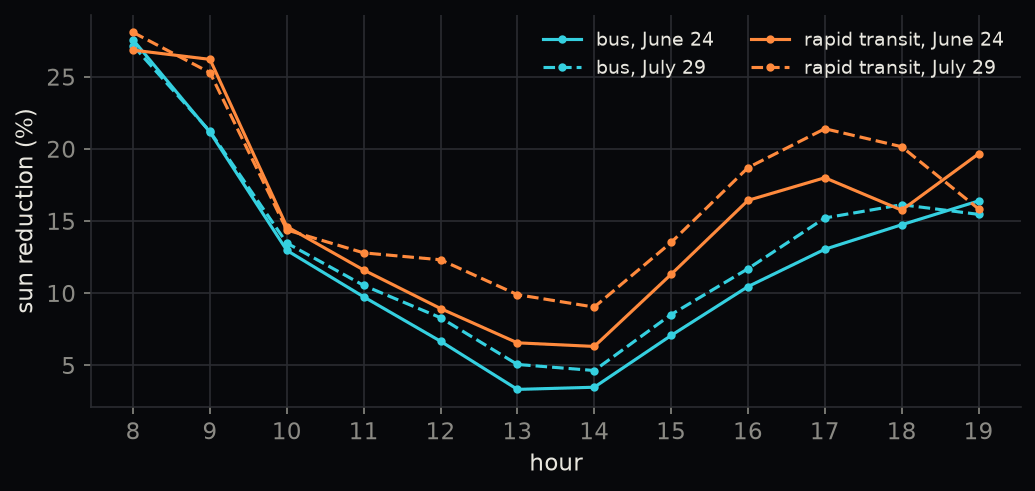
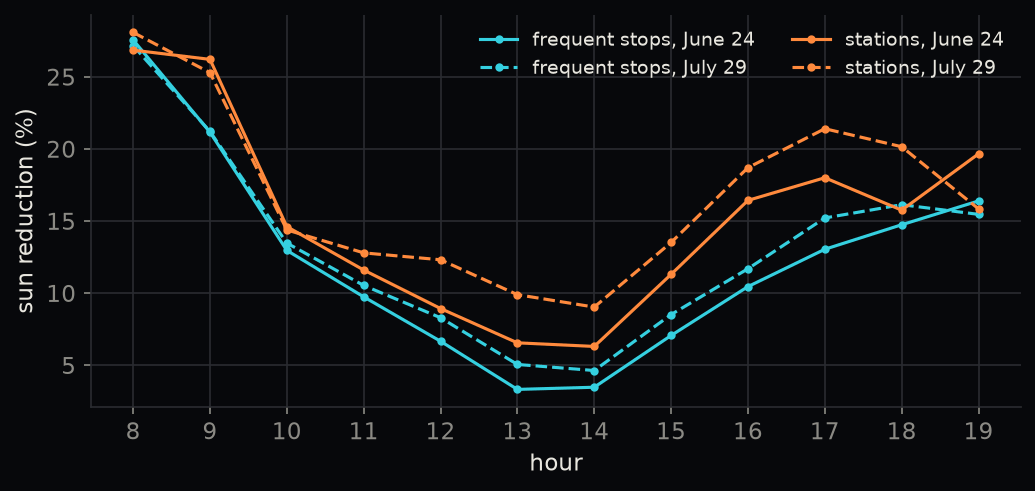
'Frequent stops' on the story, map, results and technical notes
About a fifth of the 1,605 frequent surface stops are trolley stops, so 'bus stops' was
inaccurate; the data and methods pages keep the full 'bus or trolley stops'.

Changed region(s): [[0.4638, 0.0611, 0.8966, 0.1527]]

diff --git a/site/app/index.html b/site/app/index.html
@@ -195,7 +195,7 @@
       <h2>Every afternoon, thousands walk home from a train or a bus. <em class="cool">Follow one.</em></h2>
       <p class="detail">From <b id="p-station">–</b> in University City to a home <b id="p-len">–</b> away, at 15:00 on June 24, 2025, the hottest day of the summer.</p>
       <div class="stat">
-        <div><div class="big num" id="n-homes">–</div><div class="cap">homes within a 15-minute walk (1.2 km) of a station or a frequent bus stop</div></div>
+        <div><div class="big num" id="n-homes">–</div><div class="cap">homes within a 15-minute walk (1.2 km) of a station or a frequent stop</div></div>
       </div>
     </div>
   </section>
@@ -273,7 +273,7 @@
 
   <section data-step="sunny" data-ch="3">
     <div class="panel step">
-      <div class="label">Walks home from frequent bus stops within 300–800 m at 15:00</div>
+      <div class="label">Walks home from frequent stops within 300–800 m at 15:00</div>
       <h2>Across the city, <em class="sun" id="s-sun">–</em> of the shortest walk home is <em class="sun">in the sun</em>.</h2>
       <div class="mini-legend" data-grid-legend="sun_share"></div>
     </div>
@@ -335,7 +335,7 @@
 
   <section data-step="cityheat" data-ch="4">
     <div class="panel step">
-      <div class="label">Walks home from frequent bus stops within 300–800 m at 15:00</div>
+      <div class="label">Walks home from frequent stops within 300–800 m at 15:00</div>
       <h2>Across the city, the coolest walk takes <em class="cool" id="ch-ext-w">–</em> off the metres in extreme heat.</h2>
       <div class="stat">
         <div><div class="big num cool" id="ch-du">–</div><div class="cap">mean UTCI along the walk</div></div>

diff --git a/site/app/js/map.js b/site/app/js/map.js
@@ -1,4 +1,4 @@
-// City map: sidewalk sun or heat by hour (PMTiles), the 500 m grid of walks home from frequent bus stops and the
+// City map: sidewalk sun or heat by hour (PMTiles), the 500 m grid of walks home from frequent stops and the
 // rapid-transit stations. Panel, legend, time bar and sidewalk colours are the shared components of common.js, as on
 // the route tool; one measure toggle (sun / heat) switches the sidewalks, the grid and the stations together.
 import { VERSION, readState, writeState, nav, collapsible, baseStyle, getJSON, pmtilesProtocol, COLORS, CLUSTERS, GRID_RAMPS, ATTR,
@@ -110,7 +110,7 @@ map.once("style.load", async () => {
 // ---- details in the panel (cells and stations alike), the clicked cell outlined
 const v = (x, f) => (x === null || x === undefined ? "–" : f(x));
 const cellTable = (p) => `<h2>${p.cluster_name}</h2>
-  <div class="sub">500 m cell · ${p.trips} walks home from frequent bus stops, 300–800 m, 15:00</div>
+  <div class="sub">500 m cell · ${p.trips} walks home from frequent stops, 300–800 m, 15:00</div>
   <table class="cmp"><thead><tr><th></th><th>sun</th><th>heat</th></tr></thead><tbody>
     <tr><td>Shortest walk</td><td>${v(p.sun_share, (x) => `${pct(x, 0)} sunny`)}</td><td>${v(p.u_short, (x) => degC(x))}</td></tr>
     <tr><td>Shadiest / coolest</td><td class="cool-t">${v(p.sun_red, (x) => `−${pct(x, 0)} sun`)}</td><td class="cool-t">${v(p.u_cool, (x) => degC(-x))}</td></tr>

diff --git a/site/app/map.html b/site/app/map.html
@@ -32,7 +32,7 @@
   <div class="block" id="legend"></div>
 
   <div class="block">
-    <div class="label">500 m grid · walks from bus stops</div>
+    <div class="label">500 m grid · walks from frequent stops</div>
     <div class="chips" id="gridvar"></div>
     <div id="glegend" style="margin-top:10px"></div>
   </div>
